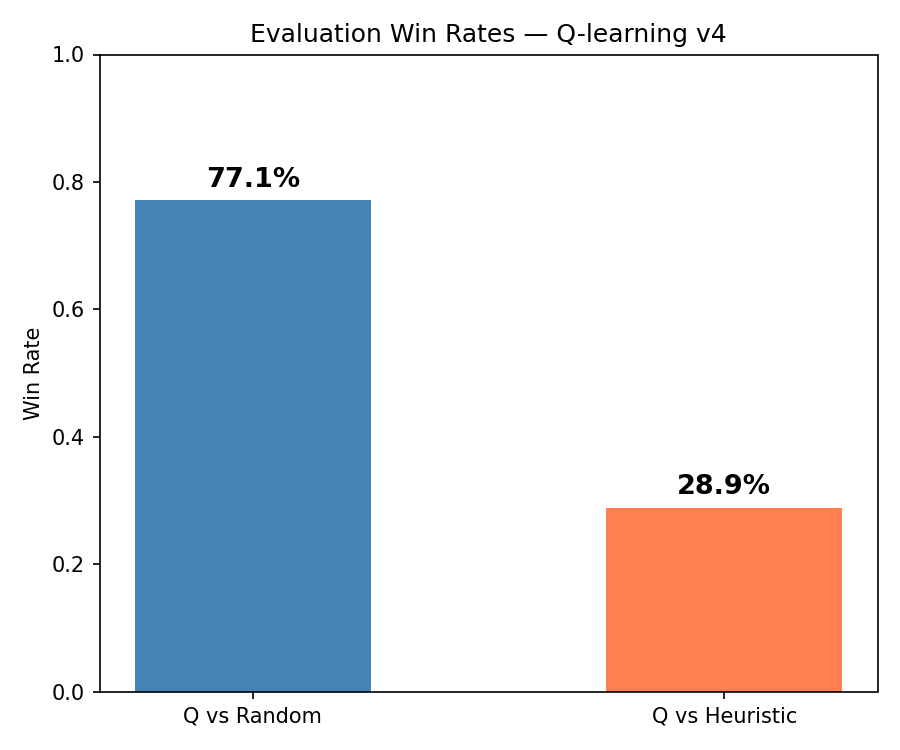
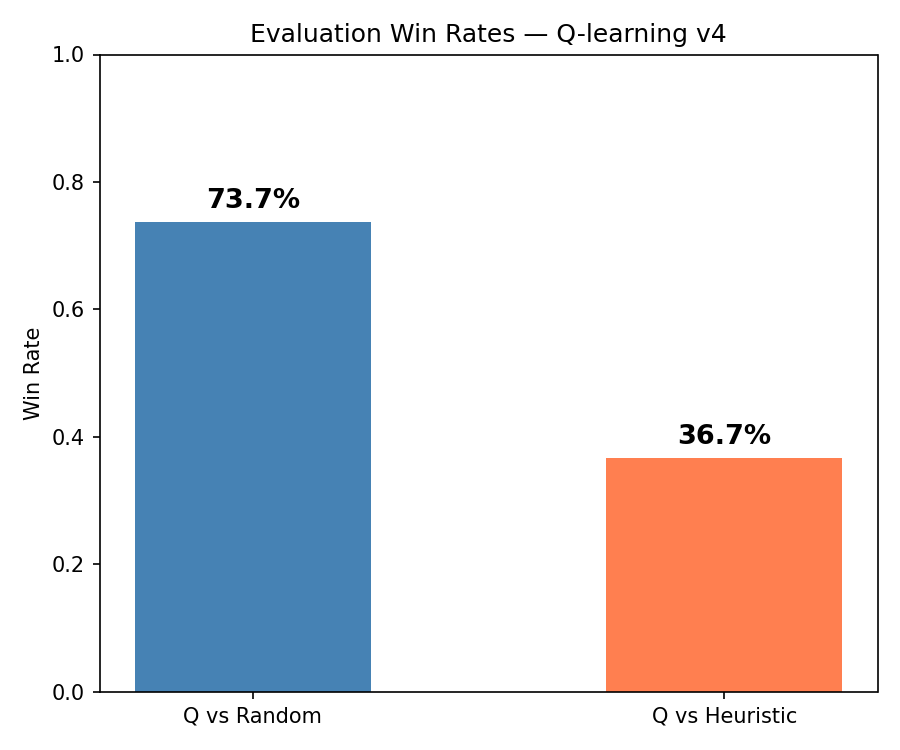
changed values in dataclass for better results

Changed region(s): [[0.6533, 0.552, 0.9333, 0.6747], [0.1244, 0.2147, 0.4356, 0.3067]]

diff --git a/qlearning.py b/qlearning.py
@@ -225,13 +225,13 @@ def _has_safe_move(env: EnvConnect4, acting_piece: int, opp_piece: int) -> bool:
 @dataclass
 class TrainParams:
     episodes:      int   = 200_000
-    alpha_start:   float = 0.10
-    alpha_end:     float = 0.02
+    alpha_start:   float = 0.15
+    alpha_end:     float = 0.01
     gamma:         float = 0.99
     epsilon_start: float = 1.0
-    epsilon_decay: float = 0.999994   
-    epsilon_min:   float = 0.02
-    heuristic_prob: float = 0.85      
+    epsilon_decay: float = 0.999996   
+    epsilon_min:   float = 0.05
+    heuristic_prob: float = 0.80      
     seed:          int   = 42
     print_every:   int   = 5_000
     q_file:        str   = "q_table.pkl"
